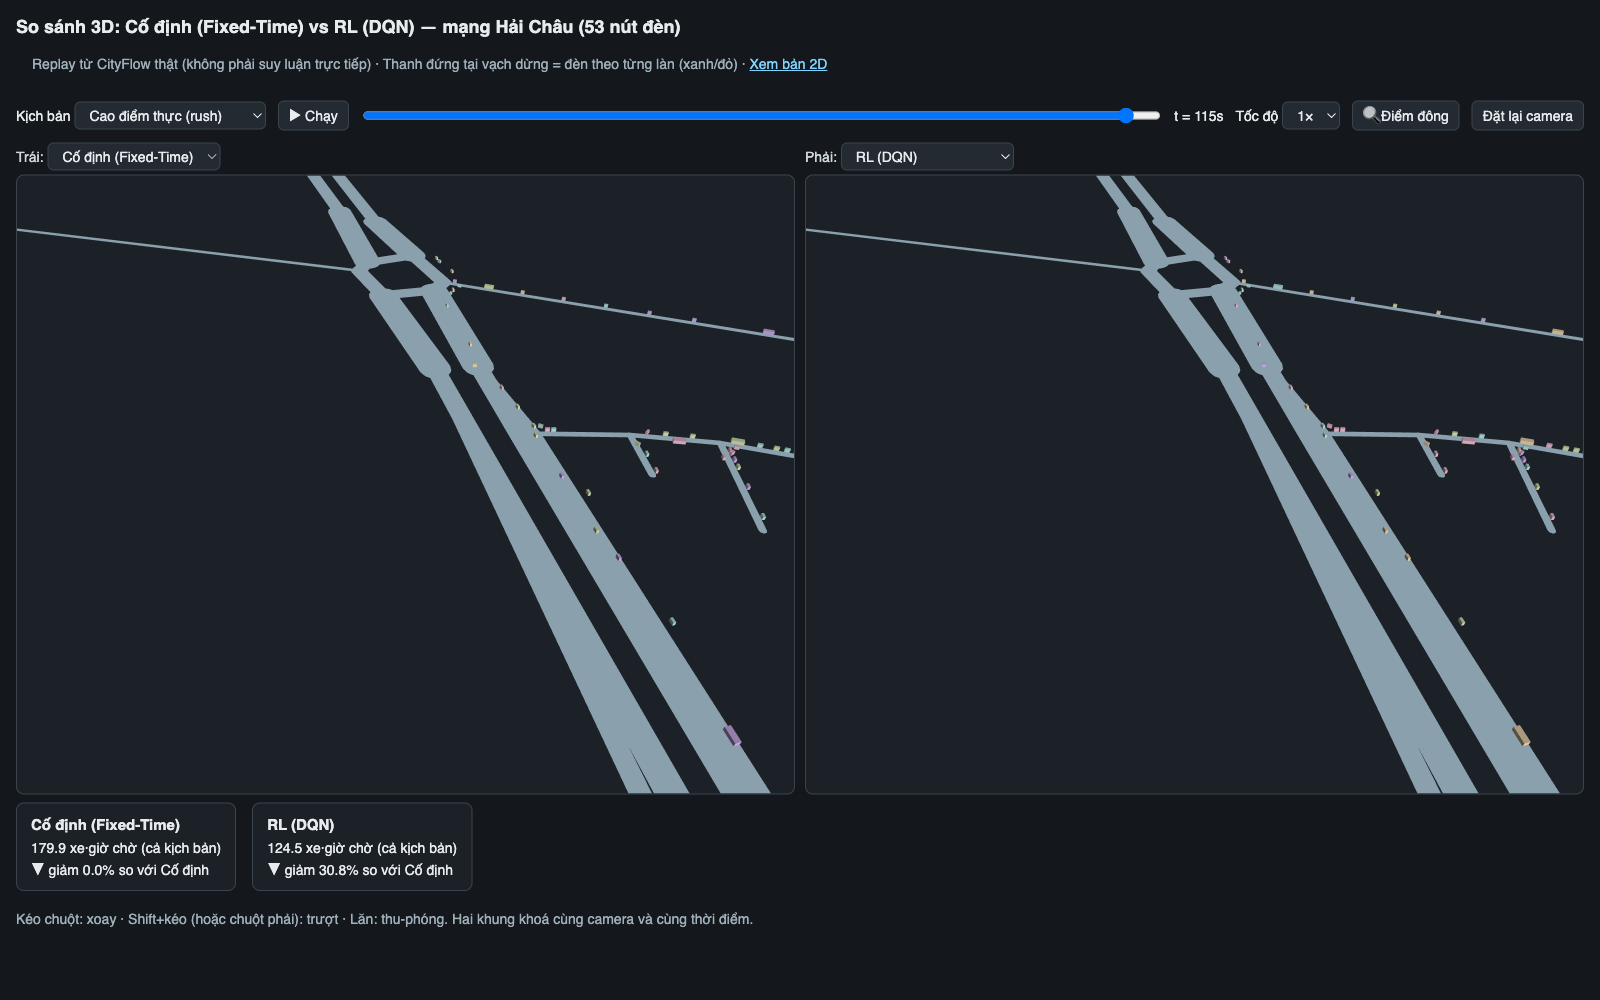
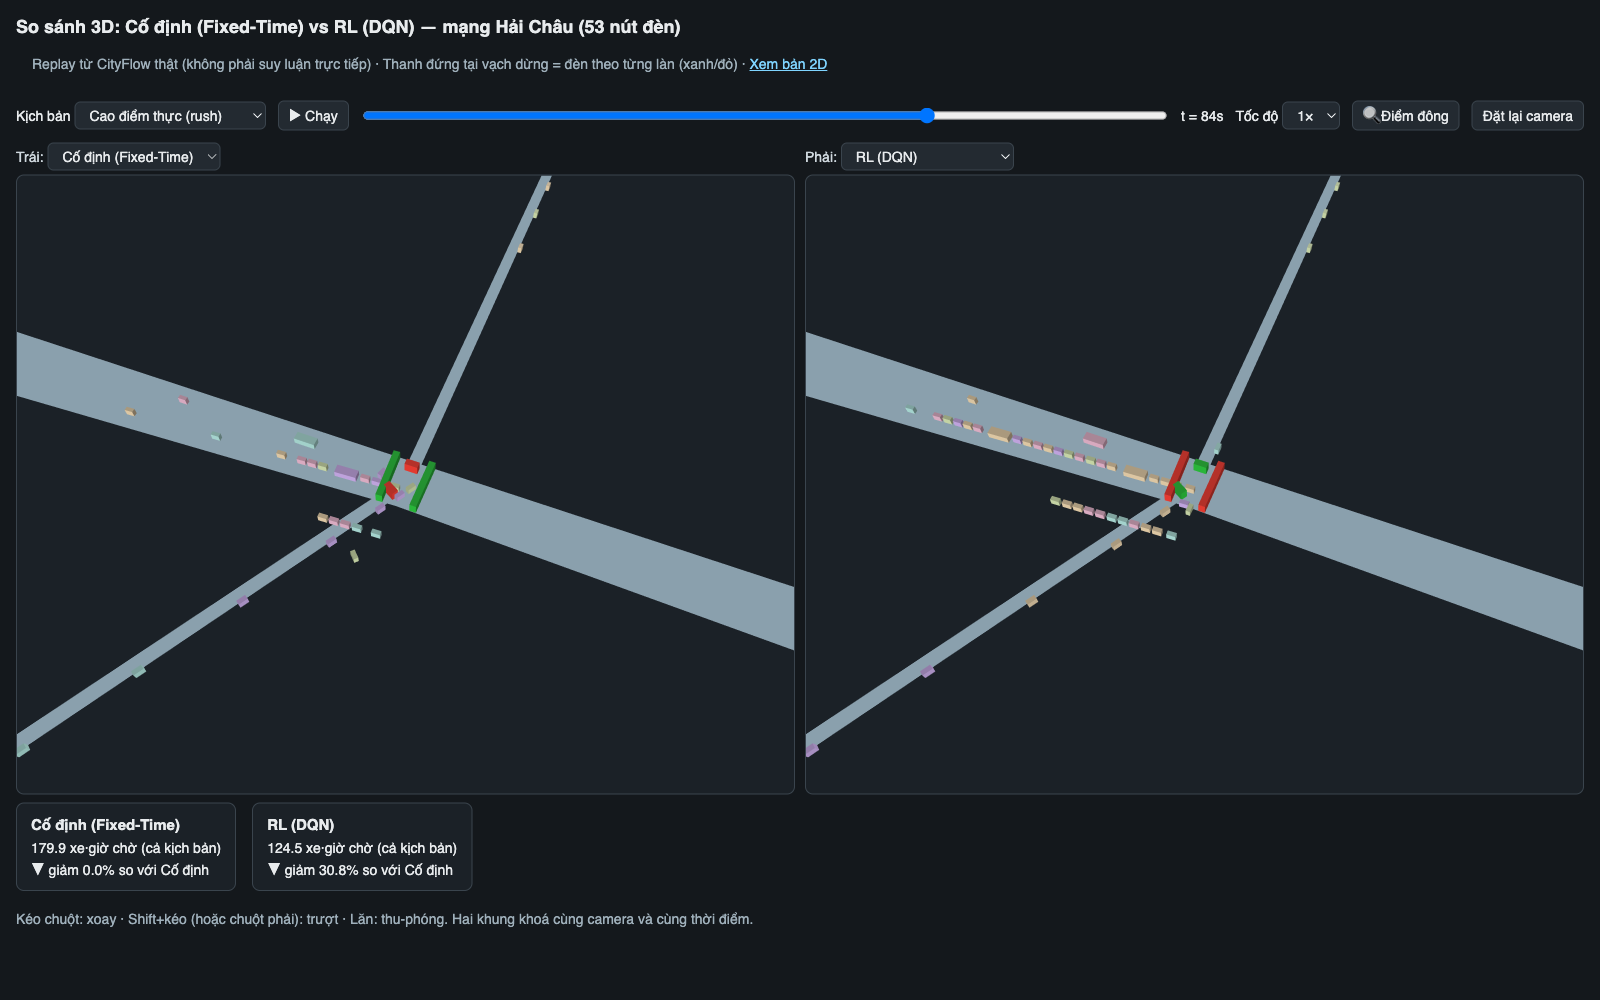
docs(demo): pick a 3D fallback frame that actually shows something
The first 3D screenshot was the ~300 m oblique view where the two panels look
nearly identical — useless as a projector-failure fallback. Replaced with
t = 84s at the junction (668, 5805), where Fixed-Time holds green on the exact
approach the DQN holds red (and vice versa on the cross street): a visual
counterpart to the 25% agreement number, with the per-lane bars legible.

Quickstart now orders the fallbacks (2D first — it carries the queue-length
comparison; 3D second, and explicitly not for comparing queue lengths at one
junction at one instant), and answers the two questions the images invite:
whether vehicles are to scale (2D markers are not, 3D boxes are) and how long
the clip is versus what the scoreboard measures.

diff --git a/docs/demo_quickstart.md b/docs/demo_quickstart.md
@@ -23,8 +23,18 @@ python3 scripts/serve_replay.py --no-browser
 > tới ô đông xe nhất của replay (~300 m ở bản 3D, ~600 m ở bản 2D) — chỗ đó thấy rõ
 > hàng chờ và đèn từng làn.
 
-Ảnh dự phòng nếu máy chiếu/WebGL lỗi:
-`results/presentation/demo3d_ab_rush.png` · `results/presentation/demo2d_ab_rush.png`
+**Ảnh dự phòng nếu máy chiếu/WebGL lỗi** (dùng theo thứ tự này):
+
+1. `results/presentation/demo2d_ab_rush.png` — **mang được lập luận A/B**: thấy rõ các
+   chuỗi xe xếp hàng, so được trái/phải. Dùng ảnh này trước.
+2. `results/presentation/demo3d_ab_rush.png` — nút (668, 5805) tại **t = 84s**: cùng một
+   thời điểm, Fixed-Time đang **xanh** đúng nhánh mà DQN đang **đỏ** (và ngược lại ở nhánh
+   cắt). Đây là **bằng chứng thị giác cho con số agreement 25%** — hai controller chọn pha
+   khác nhau. Ảnh này để nói về *đèn theo từng làn* và *hai chính sách khác nhau*, **không**
+   phải để so độ dài hàng chờ (một nút một thời điểm không đại diện cho cả episode —
+   con số cả episode nằm ở bảng điểm và Chương 4).
+
+Tái lập ảnh 2: mở bản 3D → tua tới t = 84s → kéo camera tới nút phía tây (x≈668, y≈5805).
 
 ---
 
@@ -88,6 +98,14 @@ chỉ 6–8 / 53 nút đạt ≥70% → **cùng đẳng cấp hiệu năng, chí
 
 Câu trả lời 1 dòng: *"Demo phát đúng một episode một seed (30.8%); con số trong luận văn
 là trung bình 5 seed (37.1% ± 2.2 %-point)."*
+
+**Nếu thầy hỏi "xe vẽ đúng tỉ lệ chưa?"** — bản 2D vẽ xe dạng **marker cố định ~3 px, KHÔNG
+theo tỉ lệ** (xe máy 2 m thật sẽ dưới 1 px ở mọi mức zoom còn thấy được nút giao); bản 3D vẽ
+**hộp đúng kích thước thật** từ (x, y, góc, dài, rộng) trong replay — đó là lý do phải bấm
+🔍 Điểm đông mới thấy xe. Vị trí xe ở **cả hai bản đều là số thật** trong replay.
+
+**Nếu thầy hỏi "đoạn phát dài bao nhiêu?"** — 120 khung × 1 s = ~2 phút đầu episode; veh-h
+trên bảng điểm là của **cả episode**, không phải của đoạn clip.
 
 ---
 
